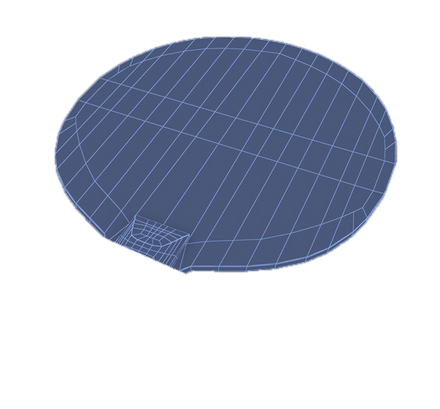
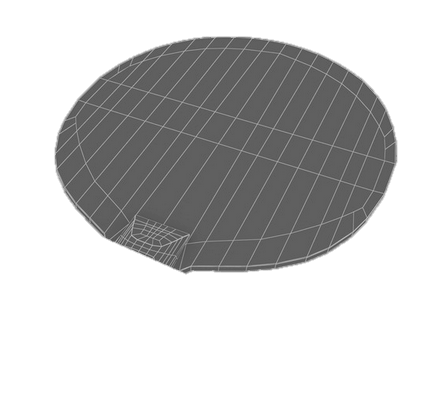
bw

diff --git a/index.html b/index.html
@@ -21,33 +21,36 @@
 	<body>
 		<div class="header">TABLE TENNIS PRO</div>
 
-		<div class="container">
-			<div class="row">
-			  <div class="col-md-5 col-md-offset-1">
+		<div class="bodydiv">
+			<div class="content">
+			  	<div class="paddlecontainer">
 			  		<canvas id="paddleCanvas" width="450" height="450">
                     Your browser does not support the HTML5 canvas tag.</canvas>
-                    <canvas id="diamondCanvas" width="250" height="250">
+                    <canvas id="diamondCanvas" width="250" height="200">
                     Your browser does not support the HTML5 canvas tag.</canvas>
-			  </div>
-			  <div class="col-md-5">
-			  	<div class="productBtn" id="bladeBtn" data-toggle="modal" data-target="#blade-modal">
-			  		BLADE
 			  	</div>
-			  	<div class="productBtn" id="rubberBtn" data-toggle="modal" data-target="#rubber-modal">
-			  		RUBBER
+			  	<div class="buttoncontainer">
+
+			  		<div class="productBtn" id="bladeBtn" data-toggle="modal" data-target="#blade-modal">BLADE
+			  			<div id="blade-summary" class="summary"></div>
+			  		</div>
+
+
+				  	<div class="productBtn" id="rubberBtn" data-toggle="modal" data-target="#rubber-modal">RUBBER
+				  		<div id="rubber-summary"></div>
+				  	</div>
+
+
+				  	<div class="productBtn" id="glueBtn" data-toggle="modal" data-target="#glue-modal">GLUE
+				  		<div id="glue-summary"></div>
+				  	</div>
+
+				  	<div id="priceLabel">
+				  		Total: $<span id="total-price">0</span>
+				  	</div>
 			  	</div>
-			  	<div class="productBtn" id="glueBtn" data-toggle="modal" data-target="#glue-modal">
-			  		GLUE
-			  	</div>
-			  	<div id="priceLabel">
-			  		Total: $<span id="total-price">0</span>
-			  	</div>
-			  </div>
 			</div>
 		</div>
-		<div id="blade-summary"></div>
-		<div id="rubber-summary"></div>
-		<div id="glue-summary"></div>
 
 
 		<div class="modal fade" id="blade-modal" tabindex="-1" role="dialog" aria-labelledby="myModalLabel" aria-hidden="true">
@@ -57,10 +60,7 @@
 		        <button type="button" class="close pull-right" data-dismiss="modal" aria-hidden="true">&times;</button>
 		        <h4 class="modal-title">Blade</h4>
 		      </div>
-		      <div class="modal-body" id="blade-modal-body">
-		      	
-		      </div>
-		      <div class="modal-footer">
+		      <div class="modal-body" id="blade-modal-body">	
 		      </div>
 		    </div><!-- /.modal-content -->
 		  </div><!-- /.modal-dialog -->
@@ -73,10 +73,7 @@
 		        <button type="button" class="close pull-right" data-dismiss="modal" aria-hidden="true">&times;</button>
 		        <h4 class="modal-title">Rubber</h4>
 		      </div>
-		      <div class="modal-body" id="rubber-modal-body">
-		      	
-		      </div>
-		      <div class="modal-footer">
+		      <div class="modal-body" id="rubber-modal-body">		      	
 		      </div>
 		    </div><!-- /.modal-content -->
 		  </div><!-- /.modal-dialog -->
@@ -89,10 +86,7 @@
 		        <button type="button" class="close pull-right" data-dismiss="modal" aria-hidden="true">&times;</button>
 		        <h4 class="modal-title">Glue</h4>
 		      </div>
-		      <div class="modal-body" id="glue-modal-body">
-		      	
-		      </div>
-		      <div class="modal-footer">
+		      <div class="modal-body" id="glue-modal-body">	      	
 		      </div>
 		    </div><!-- /.modal-content -->
 		  </div><!-- /.modal-dialog -->

diff --git a/css/main.css b/css/main.css
@@ -5,15 +5,39 @@
 /* Header */
 .header{
 	width: 100%;
-	margin-bottom:60px;
+	margin-bottom:40px;
 	font-size:30px;
 	padding-top:15px;
 	padding-bottom:15px;
 	text-align: center;
 	font-family: 'Lato', sans-serif;
 	font-weight: 900;
-	background-color: #F2F2F2;
+	background-color: #D9D9D9;
 	color: #5C5C5C;
+}
+
+body{
+	background-color: #F0F0F0;
+}
+
+.content{
+	margin: 0 auto;
+	width: 900px;
+	position:relative;
+}
+
+.paddlecontainer{
+	width:450px;
+	height:450px;
+	left:0px;
+	position:absolute;
+}
+
+
+.buttoncontainer{
+	position:absolute;
+	width:450px;
+	right:0px;
 }
 
 /*Figure*/
@@ -24,36 +48,57 @@
 
 /* Diamond */
 #diamondCanvas {
-	position: absolute;
-	top: 240px;
-	left:230px;
+	right:0px;
+	bottom:0px;
+	position:absolute;
 	border:0px #87AFC7 solid;
 }
 
 
 /* Products */
 .productBtn{
+	position:relative;
 	cursor: pointer;
 	color: #6E6E6E;
-	width: 60%;
+	width: 55%;
 	padding:30px 0px;
 	text-align: center;
-	margin-bottom:20px;
 	font-size: 26px;
 	background-color: #E3E3E3;
 	border-radius: 5px;
 	font-family: 'Lato', sans-serif;
 	font-weight:300;
+	margin: 0 auto;
+	margin-bottom:20px;
+	border: 1px solid #E3E3E3;
 }
 
 .productBtn:hover{
-	background-color: #D1D1D1;
+	/* background-color: #D1D1D1; */
+	background: -webkit-gradient(linear, left top, left bottom, from(#E3E3E3), to(#D9D9D9));
+	background: -moz-linearc-gradient(top,  #E3E3E3,  #D9D9D9);
+	filter:  progid:DXImageTransform.Microsoft.gradient(startColorstr='#E3E3E3', endColorstr='#D9D9D9');
+	border: 1px solid #D9D9D9;
+	-webkit-box-shadow: 0 2px 3px rgba(0,0,0,.1);
+	-moz-box-shadow: 0 2px 3px rgba(0,0,0,.1);
+	box-shadow: 0 2px 3px rgba(0,0,0,.1);
+}
+
+.summary{
+	position: absolute;
+	width:100px;
+	left: 100%;
+	top: 20%;
+	bottom: 20%;
+	font-family: 'Lato', sans-serif;
+	font-size:12px;
+	background-color: #FAFAFA;
 }
 
 /* Price Label */
 #priceLabel {	
 	color: #6E6E6E;
-	width: 60%;
+	width: 55%;
 	padding:15px 0px;
 	text-align: center;
 	margin-top: 73px;
@@ -62,6 +107,8 @@
 	font-family: 'Lato', sans-serif;
 	background-color: #D6D6D6;
 	font-weight:300;
+	margin: 0 auto;
+
 }
 
 .modal-body {

diff --git a/js/canvas.js b/js/canvas.js
@@ -14,7 +14,7 @@ function paintCanvas(){
     	//NOTE: http://stackoverflow.com/questions/12387310/html5-drawimage-works-in-firefox-not-chrome
     	//looks like this is recommendated drawImage() method that would work in both Chrome and Firefox
         var core_img = new Image();
-        core_img.src = "img/core_highlight.png"; 
+        core_img.src = "img/core_highlight_bw.png"; 
         core_img.onload = function(){
             context_p.drawImage(core_img, 60, -30, 423, 400);
         }
@@ -25,7 +25,7 @@ function paintCanvas(){
 
     $("#bladeBtn").mouseenter(function(){
         var blade_img = new Image();
-        blade_img.src = "img/blade_highlight.png"; 
+        blade_img.src = "img/blade_highlight_bw.png"; 
         blade_img.onload = function() {
             context_p.drawImage(blade_img, 13, 15, 435, 435);
         }
@@ -36,7 +36,7 @@ function paintCanvas(){
 
     $("#glueBtn").mouseenter(function(){
         var glue_img = new Image();
-        glue_img.src = "img/glue_highlight.png"; 
+        glue_img.src = "img/glue_highlight_bw.png"; 
         glue_img.onload = function() {
             context_p.drawImage(glue_img, 50, -53, 435, 435);
         }
@@ -51,7 +51,7 @@ function paintCanvas(){
     var params = {speed:0.8, spin:0.7, control:1, weight:0.95, price:0.85}; 
 
     //COLOR CODE: speed: green, spin: blue, control: orange, weight: olive, price: black
-    var variable_colors = {speed: "green", spin: "blue", control: "orange", weight: "olive", price: "red"};		        
+    var variable_colors = {speed: "#363636", spin: "#363636", control: "#363636", weight: "#363636", price: "#363636"};		        
 
     var keys = Object.keys(params); 
     var canvas_d = document.getElementById("diamondCanvas"); 
